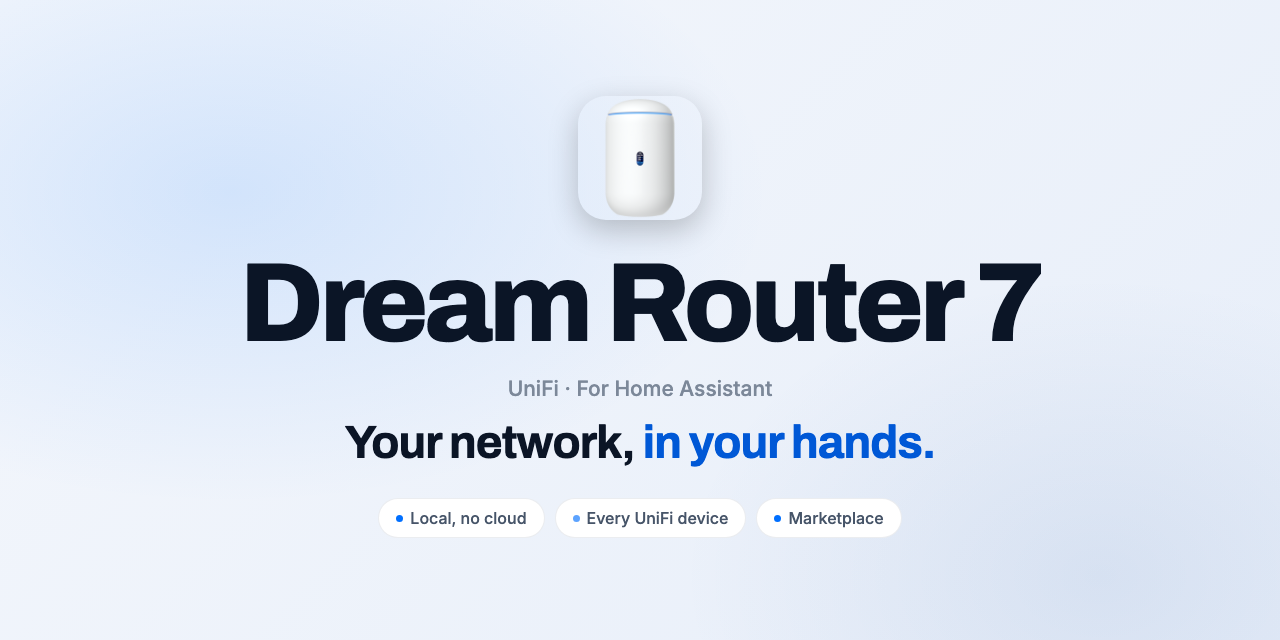
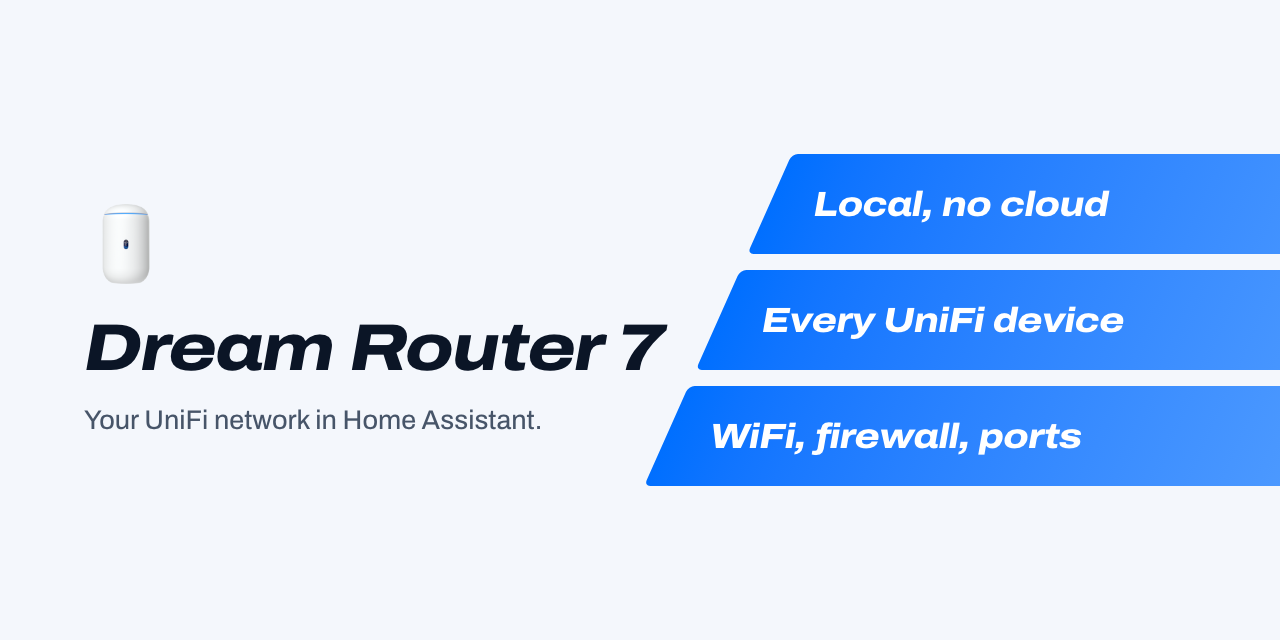
README and project page in the v2 design
Title banner with the lanes, Install and Set up as one Get started, shared
footer. The page loads theme v2 (Archivo from sh1ft-w.github.io), hero left
with the three key facts on the lanes.

Claude-Session: https://claude.ai/code/session_01TLmTtZLAvnS1BJ3w9tzxXq

diff --git a/docs/index.html b/docs/index.html
@@ -13,20 +13,17 @@
 <meta property="og:description" content="Your Dream Router 7 and every UniFi device behind it in Home Assistant. Local, no cloud.">
 <meta property="og:image" content="https://sh1ft-w.github.io/unifi-dreamrouter7/images/readme-title-social.png">
 <link rel="icon" href="logo.png">
-<link rel="preconnect" href="https://fonts.googleapis.com">
-<link rel="preconnect" href="https://fonts.gstatic.com" crossorigin>
-<link href="https://fonts.googleapis.com/css2?family=Archivo:wght@600;700;800;900&family=Inter:wght@400;500;600&family=JetBrains+Mono:wght@400;500&display=swap" rel="stylesheet">
-<!-- Shared SH1FT-W design (tokens, glass navigation, light/dark, DE/EN, reveal) -->
-<link rel="stylesheet" href="https://sh1ft-w.github.io/theme/v1/theme.css">
-<script src="https://sh1ft-w.github.io/theme/v1/theme.js"></script>
+<!-- Shared SH1FT-W design, version 2 (tokens, Archivo, navigation, light/dark, DE/EN, the lanes) -->
+<link rel="stylesheet" href="https://sh1ft-w.github.io/theme/v2/theme.css">
+<script src="https://sh1ft-w.github.io/theme/v2/theme.js"></script>
 <style>
 /* Palette wie UniFi UNAS: kühles Weiß bei Tag, tiefes Nachtblau bei Nacht, ein Akzent in UniFi-Blau */
 :root {
   --accent: #006FFF; --accent-ink: #0058D6; --on-accent: #ffffff;
   --orange: #006FFF; --orange-ink: #0058D6; --orange-tint: rgba(0,111,255,0.10); --orange-glow: rgba(0,111,255,0.34);
-  --font: "Inter", -apple-system, BlinkMacSystemFont, system-ui, sans-serif;
-  --display: "Archivo", "Inter", -apple-system, BlinkMacSystemFont, system-ui, sans-serif;
-  --mono: "JetBrains Mono", ui-monospace, "SF Mono", Menlo, monospace;
+  --font: "Archivo", -apple-system, BlinkMacSystemFont, system-ui, sans-serif;
+  --display: "Archivo", -apple-system, BlinkMacSystemFont, system-ui, sans-serif;
+  --mono: ui-monospace, "SF Mono", Menlo, monospace;
   --bg: #F4F7FC; --bg-2: #E9EFF8; --card: #FFFFFF; --card-2: #F1F5FB;
   --ink: #0B1526; --ink-2: #475569; --ink-3: rgba(11,21,38,0.54);
   --line: rgba(5,25,60,0.11); --chip: rgba(5,25,60,0.06);
@@ -93,9 +90,6 @@ section.tint { background: var(--bg-2); }
 
 /* Hero */
 .hero { padding: clamp(56px, 9vw, 112px) 0 clamp(64px, 8vw, 104px); text-align: center; overflow: hidden; }
-.hero .glow { position: absolute; inset: -20% -10% auto; height: 90%; pointer-events: none;
-  background: radial-gradient(40% 36% at 30% 30%, rgba(0,111,255,0.18), transparent 70%), radial-gradient(36% 34% at 72% 24%, rgba(92,163,255,0.16), transparent 70%);
-  filter: blur(50px); }
 .hero .wrap { position: relative; }
 .hero .lead { max-width: 640px; margin-left: auto; margin-right: auto; }
 .cta { display: flex; flex-wrap: wrap; gap: 12px; justify-content: center; margin-top: 34px; }
@@ -271,6 +265,45 @@ footer .fine { flex-basis: 100%; line-height: 1.6; }
   .tbl.core tr { display: table-row; padding: 0; } .tbl.core th, .tbl.core td { display: table-cell; padding: 10px; border-top: 1px solid var(--line); }
   .tbl.core thead th { border-top: 0; font-size: 11px; letter-spacing: 0.02em; }
 }
+/* ---- theme v2 ---- */
+:root { --lane-a: #006FFF; --lane-b: #5CA3FF; --radius: 20px; --radius-lg: 28px; --max: 1200px; }
+body { font-family: var(--font); }
+h1 { font-size: clamp(44px, 6vw, 84px); line-height: 1; font-weight: 800; font-stretch: 118%; font-style: italic; letter-spacing: -0.025em; }
+h2 { font-size: clamp(30px, 3.8vw, 48px); line-height: 1.08; font-weight: 750; font-stretch: 112%; letter-spacing: -0.02em; }
+h3 { font-stretch: 106%; }
+h1 em, h2 em { color: inherit; font-style: inherit; }
+.center { text-align: left; } .center .lead { margin-left: 0; margin-right: 0; }
+.head { max-width: 50em; }
+.eyebrow { text-transform: none; letter-spacing: 0; font-size: 16px; font-weight: 650; margin-bottom: 12px; }
+.eyebrow::before { display: none; }
+.cap, .fict { text-align: left; }
+.flow { margin: 0; }
+.btn { border-radius: 12px; box-shadow: none; }
+.btn.ghost { background: var(--chip); box-shadow: none; }
+.pill { box-shadow: none; background: var(--chip); border-radius: 8px; }
+.b, .tile, .panel, .panel-ill, .tbl, .faq details, .flow .lane { box-shadow: none; border: 1px solid var(--line); }
+.b .tag, .tg, .tbl thead th { text-transform: none; letter-spacing: 0; font-size: 13px; }
+.b .tag, .tg { border-radius: 6px; }
+.tile .ico { border-radius: 10px; }
+.hero { text-align: left; padding: clamp(48px, 7vw, 96px) 0 clamp(56px, 7vw, 96px); overflow: hidden; }
+.hero .wrap.cols { display: grid; grid-template-columns: minmax(0, 1.15fr) minmax(0, 1fr); gap: clamp(24px, 4vw, 64px); align-items: center; }
+.hero .mark { width: 64px; height: 64px; border-radius: 15px; margin-bottom: 26px; }
+.hero .lead { margin-left: 0; max-width: 34em; }
+.cta, .meta { justify-content: flex-start; }
+.finale .cta { justify-content: center; }
+.hero .s-lanes { margin-right: calc(-1 * var(--gutter) - 14vw); }
+.s-track b { color: #fff; font: italic 800 clamp(20px, 2.5vw, 34px)/1 var(--font); font-stretch: 116%; letter-spacing: -0.015em; white-space: nowrap; }
+/* The scene: a full-width stage below the two-column hero */
+.stage { max-width: none; margin: clamp(48px, 6vw, 80px) 0 0; box-shadow: inset 0 0 0 1px rgba(255,255,255,0.06); }
+@media (max-width: 900px) { .hero .wrap.cols { grid-template-columns: 1fr; } .hero .s-lanes { margin: 8px calc(-1 * var(--gutter) - 8vw) 0 44px; } }
+/* Phone: the navigation has to fit the name, both switches and the button */
+@media (max-width: 480px) {
+  .nav { gap: 6px; padding: 0 6px 0 10px; }
+  .nav .brand { font-size: 14px; gap: 6px; min-width: 0; flex-shrink: 1; white-space: nowrap; overflow: hidden; }
+  .nav .brand img { display: none; }
+  .nav .iconbtn { margin-left: -4px; }
+  .nav .btn.small { padding: 0 12px; flex: none; }
+}
 </style></head>
 <body>
 
@@ -295,20 +328,27 @@ footer .fine { flex-basis: 100%; line-height: 1.6; }
 </div>
 
 <section class="hero" id="top">
-  <div class="glow" aria-hidden="true"></div>
-  <div class="wrap">
-    <p class="eyebrow reveal"><span class="en">UniFi Dream Router 7 in Home Assistant</span><span class="de">UniFi Dream Router 7 in Home Assistant</span></p>
-    <h1 class="reveal d1"><span class="en">Your network,<br><em>in your hands.</em></span><span class="de">Dein Netz,<br><em>in deiner Hand.</em></span></h1>
-    <p class="lead reveal d2"><span class="en">Everything the UniFi Network app shows and switches, in Home Assistant: <strong>throughput, internet quality, WiFi, firewall, policies, VPN, ports, PoE, clients</strong> and every access point and switch behind the router. Local, no cloud, nothing installed on the router.</span><span class="de">Alles, was die UniFi-Network-App zeigt und schaltet, in Home Assistant: <strong>Durchsatz, Internetqualität, WLAN, Firewall, Richtlinien, VPN, Ports, PoE, Clients</strong> und jeder Access Point und Switch hinter dem Router. Lokal, ohne Cloud, nichts auf dem Router installiert.</span></p>
-    <div class="cta reveal d3">
-      <a class="btn" href="#install"><span class="en">Install from the Marketplace</span><span class="de">Über den Marketplace installieren</span></a>
-      <a class="btn ghost" href="https://github.com/SH1FT-W/unifi-dreamrouter7#readme"><span class="en">Read the README</span><span class="de">Zur Anleitung</span></a>
+  <div class="wrap cols">
+    <div>
+      <img class="mark" src="logo.png" alt="" width="64" height="64">
+      <h1><span class="en">Your network, in your hands.</span><span class="de">Dein Netz, in deiner Hand.</span></h1>
+      <p class="lead reveal d2"><span class="en">Everything the UniFi Network app shows and switches, in Home Assistant: <strong>throughput, internet quality, WiFi, firewall, policies, VPN, ports, PoE, clients</strong> and every access point and switch behind the router. Local, no cloud, nothing installed on the router.</span><span class="de">Alles, was die UniFi-Network-App zeigt und schaltet, in Home Assistant: <strong>Durchsatz, Internetqualität, WLAN, Firewall, Richtlinien, VPN, Ports, PoE, Clients</strong> und jeder Access Point und Switch hinter dem Router. Lokal, ohne Cloud, nichts auf dem Router installiert.</span></p>
+      <div class="cta reveal d3">
+        <a class="btn" href="#install"><span class="en">Install from the Marketplace</span><span class="de">Über den Marketplace installieren</span></a>
+        <a class="btn ghost" href="https://github.com/SH1FT-W/unifi-dreamrouter7#readme"><span class="en">Read the README</span><span class="de">Zur Anleitung</span></a>
+      </div>
+      <p class="meta reveal d3">
+        <span class="pill"><i></i><span id="udr7-version">Version 26.10.4</span></span>
+        <span class="en">Home Assistant 2026.9 or newer &middot; English and German &middot; Apache 2.0</span><span class="de">Home Assistant 2026.9 oder neuer &middot; Deutsch und Englisch &middot; Apache 2.0</span>
+      </p>
     </div>
-    <p class="meta reveal d3">
-      <span class="pill"><i></i><span id="udr7-version">Version 26.10.4</span></span>
-      <span class="en">Home Assistant 2026.9 or newer &middot; English and German &middot; Apache 2.0</span><span class="de">Home Assistant 2026.9 oder neuer &middot; Deutsch und Englisch &middot; Apache 2.0</span>
-    </p>
-
+    <div class="s-lanes" aria-hidden="true">
+      <div class="s-lane"><div class="s-track"><b><span class="en">Local, no cloud</span><span class="de">Lokal, ohne Cloud</span></b></div></div>
+      <div class="s-lane"><div class="s-track"><b><span class="en">Every UniFi device</span><span class="de">Jedes UniFi-Gerät</span></b></div></div>
+      <div class="s-lane"><div class="s-track"><b><span class="en">WiFi, firewall, ports</span><span class="de">WLAN, Firewall, Ports</span></b></div></div>
+    </div>
+  </div>
+  <div class="wrap">
     <div class="stage reveal d3" role="img" aria-label="Illustration: a Dream Router 7 on a desk next to a monitor, below it an internet card and a list of switches and values. Illustrated scene, made-up values.">
       <img class="scene" src="images/hero-photo.webp" width="999" height="508" fetchpriority="high" alt="">
       <div class="cards" style="margin-top: clamp(-28px, -2vw, -12px); position: relative;">
@@ -318,8 +358,8 @@ footer .fine { flex-basis: 100%; line-height: 1.6; }
             <div><div class="name">Dream Router 7</div><div class="state"><span class="en">Internet online &middot; 9 ms</span><span class="de">Internet online &middot; 9 ms</span></div></div>
             <span class="ok"><span class="en">Online</span><span class="de">Online</span></span>
           </div>
-          <div class="vol"><span><span class="en">DOWN</span><span class="de">DOWN</span></span><span class="track"><i style="width: 64%"></i></span><span>412 Mbit/s</span></div>
-          <div class="vol" style="margin-top: 10px"><span><span class="en">UP&nbsp;&nbsp;</span><span class="de">UP&nbsp;&nbsp;</span></span><span class="track"><i style="width: 22%"></i></span><span>38 Mbit/s</span></div>
+          <div class="vol"><span><span class="en">Down</span><span class="de">Down</span></span><span class="track"><i style="width: 64%"></i></span><span>412 Mbit/s</span></div>
+          <div class="vol" style="margin-top: 10px"><span><span class="en">Up&nbsp;&nbsp;</span><span class="de">Up&nbsp;&nbsp;</span></span><span class="track"><i style="width: 22%"></i></span><span>38 Mbit/s</span></div>
           <div class="srcs"><span class="on">2.4 GHz</span><span class="on">5 GHz</span><span class="on">6 GHz</span><span><span class="en">Guests</span><span class="de">Gäste</span></span></div>
           <div class="btns"><small><span class="en">Buttons</span><span class="de">Knöpfe</span></small><div class="srcs" style="margin-top:0"><span><span class="en">Speed test</span><span class="de">Speedtest</span></span><span><span class="en">Restart</span><span class="de">Neu starten</span></span><span><span class="en">Locate</span><span class="de">Gerät suchen</span></span><span><span class="en">PoE cycle</span><span class="de">PoE neu starten</span></span></div></div>
         </div>
@@ -508,8 +548,7 @@ footer .fine { flex-basis: 100%; line-height: 1.6; }
 
 <section class="finale">
   <div class="wrap narrow reveal">
-    <p class="eyebrow">UniFi Dream Router 7</p>
-    <h2><span class="en">Run your network.<br><em>Locally.</em></span><span class="de">Steuer dein Netz.<br><em>Lokal.</em></span></h2>
+    <h2><span class="en">Run your network.<br>Locally.</span><span class="de">Steuer dein Netz.<br>Lokal.</span></h2>
     <p class="lead"><span class="en">One integration for the router and every UniFi device behind it, no cloud.</span><span class="de">Eine Integration für den Router und jedes UniFi-Gerät dahinter, keine Cloud.</span></p>
     <div class="cta">
       <a class="btn" href="#install"><span class="en">Install UniFi Dream Router 7</span><span class="de">UniFi Dream Router 7 installieren</span></a>

diff --git a/README.md b/README.md
@@ -2,14 +2,14 @@
 
 <picture>
   <source media="(prefers-color-scheme: dark)" srcset="docs/images/readme-title-dark.webp" />
-  <img src="docs/images/readme-title-light.webp" alt="Dream Router 7: Your network, in your hands." />
+  <img src="docs/images/readme-title-light.webp" alt="Dream Router 7: your UniFi network in Home Assistant. Local, no cloud. Every UniFi device. WiFi, firewall, ports." />
 </picture>
 
 [![Version](https://img.shields.io/badge/dynamic/json?url=https%3A%2F%2Fraw.githubusercontent.com%2FSH1FT-W%2Funifi-dreamrouter7%2Fmain%2Fcustom_components%2Fudr7%2Fmanifest.json&query=%24.version&label=version&style=flat-square&color=006FFF&labelColor=0B1526)](https://github.com/SH1FT-W/unifi-dreamrouter7/releases/latest)
 [![Home Assistant](https://img.shields.io/badge/Home%20Assistant-2026.9%2B-006FFF?style=flat-square&labelColor=0B1526&logo=homeassistant&logoColor=white)](https://www.home-assistant.io)
 [![Marketplace](https://img.shields.io/badge/Marketplace-default-006FFF?style=flat-square&labelColor=0B1526)](https://hacs.xyz)
 
-<a href="https://sh1ft-w.github.io/unifi-dreamrouter7"><b>Website</b></a>&emsp;<a href="#install">Install</a>&emsp;<a href="#set-up">Set up</a>&emsp;<a href="#entities">Entities</a>&emsp;<a href="CHANGELOG.md">Changelog</a>
+<a href="https://sh1ft-w.github.io/unifi-dreamrouter7"><b>Website</b></a>&emsp;<a href="#get-started">Get started</a>&emsp;<a href="#entities">Entities</a>&emsp;<a href="#examples">Examples</a>&emsp;<a href="CHANGELOG.md">Changelog</a>
 
 </div>
 
@@ -37,29 +37,17 @@ Both can run side by side while you move automations over. Coming from **UniFi N
 
 **New in 26.11:** an event for every new device on the network, internet outages today with the last one, and a write-only WiFi password. Every change is in the [changelog](CHANGELOG.md).
 
-<a id="install"></a>
-## Install
+<a id="get-started"></a><a id="install"></a><a id="set-up"></a>
+## Get started
 
 [![Open in the Marketplace](https://my.home-assistant.io/badges/hacs_repository.svg)](https://my.home-assistant.io/redirect/hacs_repository/?owner=SH1FT-W&repository=unifi-dreamrouter7&category=integration)
 
-Search for **UniFi Dream Router 7** under **Settings > Marketplace** (called HACS before Home Assistant 2026.11), download it and restart Home Assistant.
-
-<details>
-<summary>Install by hand</summary>
-
-1. Download the [latest release](https://github.com/SH1FT-W/unifi-dreamrouter7/releases/latest).
-2. Copy `custom_components/udr7` into `/config/custom_components/` and restart Home Assistant.
-
-</details>
-
-<a id="set-up"></a>
-## Set up
-
 You need a **local** UniFi OS account with admin rights in UniFi Network. UI accounts with two-factor login do not work. Display, night mode and the UniFi Network app update also need admin rights in UniFi OS (Super Admin).
 
-1. **Add the router.** It usually shows up under **Settings > Devices & services > Discovered**. If not, choose **Add integration > UniFi Dream Router 7**; the address is `192.168.1.1` by default.
-2. **Enter username and password.** Site stays `default` unless you renamed it. Leave **Verify certificate** off unless the router has a certificate from a trusted authority.
-3. **Pick your clients** under **Configure**: the phones and devices that should get presence, internet access, reconnect and throughput.
+1. **Install it.** Search for **UniFi Dream Router 7** under **Settings > Marketplace** (called HACS before Home Assistant 2026.11), download it and restart Home Assistant.
+2. **Add the router.** It usually shows up under **Settings > Devices & services > Discovered**. If not, choose **Add integration > UniFi Dream Router 7**; the address is `192.168.1.1` by default.
+3. **Enter username and password.** Site stays `default` unless you renamed it. Leave **Verify certificate** off unless the router has a certificate from a trusted authority.
+4. **Pick your clients** under **Configure**: the phones and devices that should get presence, internet access, reconnect and throughput.
 
 <details>
 <summary>All options</summary>
@@ -73,6 +61,14 @@ You need a **local** UniFi OS account with admin rights in UniFi Network. UI acc
 | Tolerance | Deviation that still counts as "as expected", 10 % by default |
 | New devices also on LAN | Off: "New device connected" only for WiFi devices. On: also for devices connected by cable |
 | Verify certificate | See [Your data](#your-data) |
+
+</details>
+
+<details>
+<summary>Install by hand</summary>
+
+1. Download the [latest release](https://github.com/SH1FT-W/unifi-dreamrouter7/releases/latest).
+2. Copy `custom_components/udr7` into `/config/custom_components/` and restart Home Assistant.
 
 </details>
 
@@ -132,6 +128,7 @@ They work for any client, also one you did not pick in the options.
 
 </details>
 
+<a id="examples"></a>
 ## Examples
 
 Guest WiFi only while guests are here:
@@ -250,3 +247,11 @@ Test requirements: `pip install -r requirements_test.txt`. GitHub Actions runs t
 [Apache License 2.0](LICENSE). Copyright 2026 SH1FT-W.
 
 <sub>UniFi Dream Router 7 is an independent project, not affiliated with, endorsed or sponsored by Ubiquiti Inc. UniFi, UniFi OS, UniFi Network and Dream Router are trademarks of Ubiquiti Inc.</sub>
+
+<br/>
+
+<div align="center">
+<a href="https://sh1ft-w.github.io"><img src="https://sh1ft-w.github.io/readme/footer.png" width="640" alt="All SH1FT-W projects"></a>
+<br/>
+<sub>More open source for Home Assistant and the Mac at <a href="https://sh1ft-w.github.io">sh1ft-w.github.io</a></sub>
+</div>
